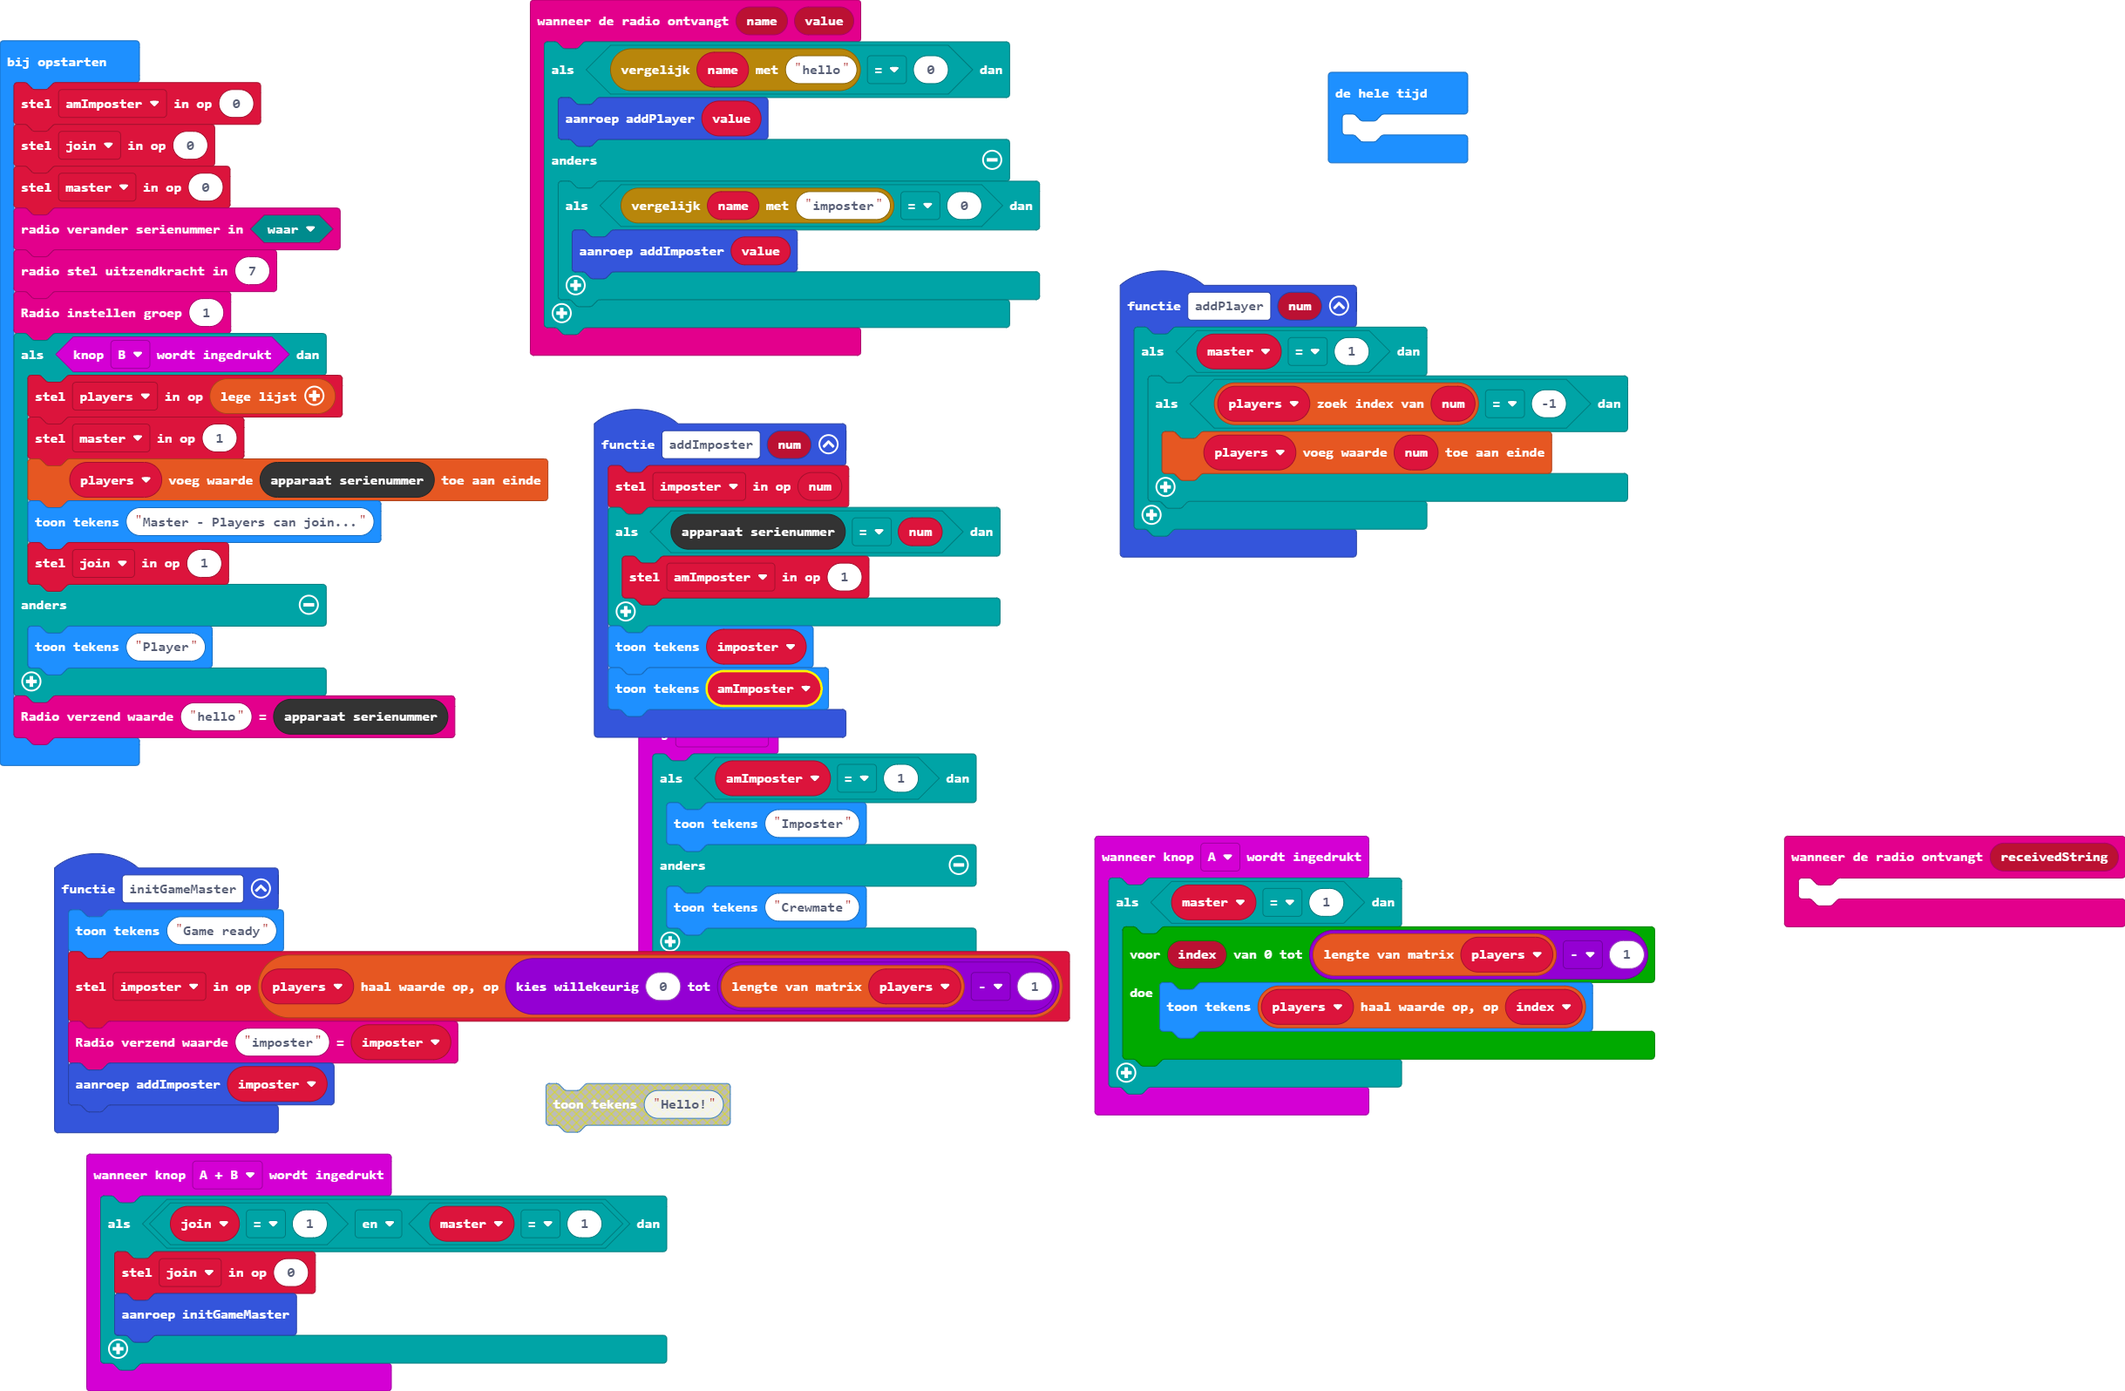
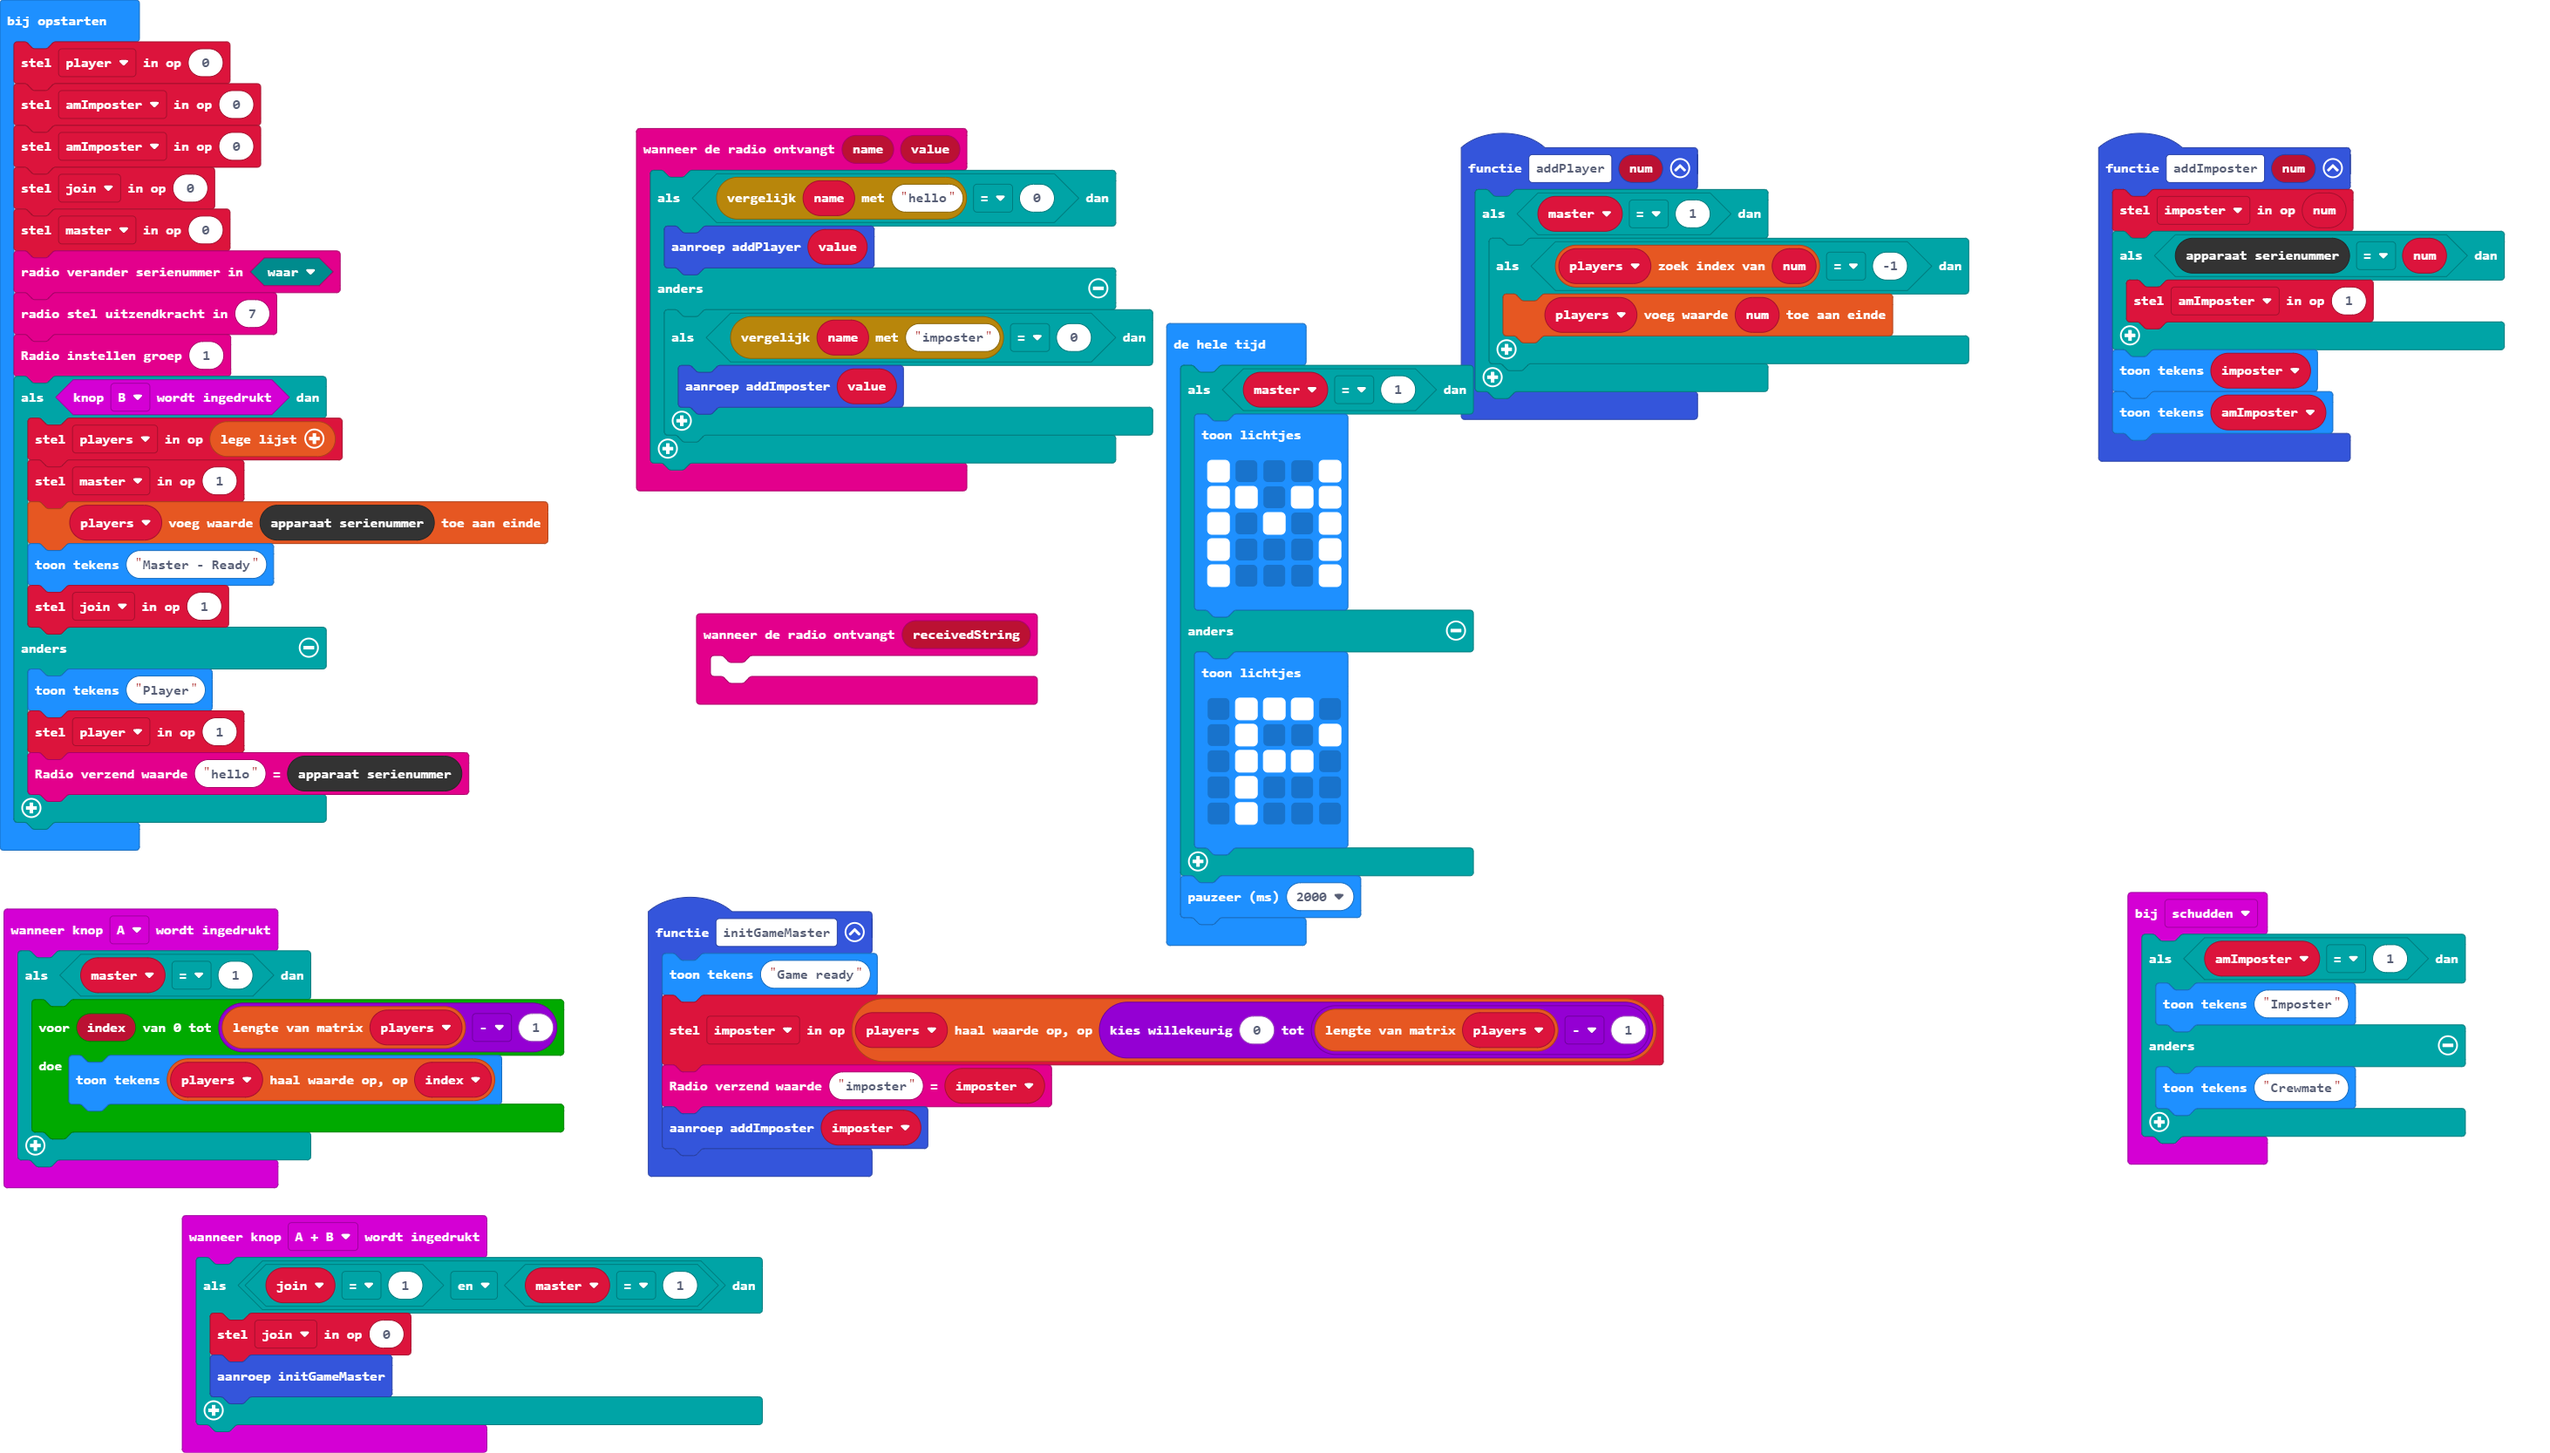
Update main.blocks, main.ts

diff --git a/main.ts b/main.ts
@@ -56,6 +56,8 @@ let players: number[] = []
 let master = 0
 let join = 0
 let amImposter = 0
+let player = 0
+amImposter = 0
 amImposter = 0
 join = 0
 master = 0
@@ -66,12 +68,30 @@ if (input.buttonIsPressed(Button.B)) {
     players = []
     master = 1
     players.push(control.deviceSerialNumber())
-    basic.showString("Master - Players can join...")
+    basic.showString("Master - Ready")
     join = 1
 } else {
     basic.showString("Player")
+    player = 1
+    radio.sendValue("hello", control.deviceSerialNumber())
 }
-radio.sendValue("hello", control.deviceSerialNumber())
 basic.forever(function () {
-	
+    if (master == 1) {
+        basic.showLeds(`
+            # . . . #
+            # # . # #
+            # . # . #
+            # . . . #
+            # . . . #
+            `)
+    } else {
+        basic.showLeds(`
+            . # # # .
+            . # . . #
+            . # # # .
+            . # . . .
+            . # . . .
+            `)
+    }
+    basic.pause(2000)
 })
